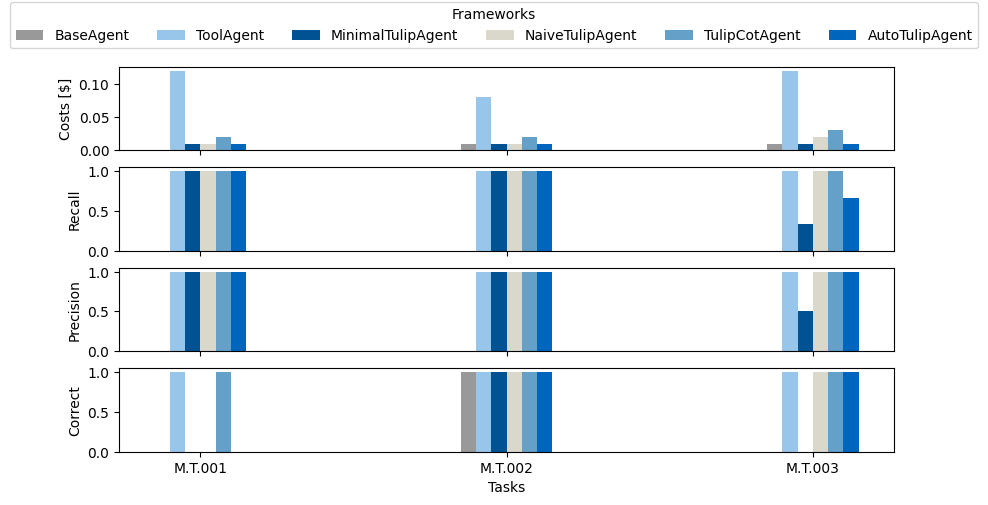
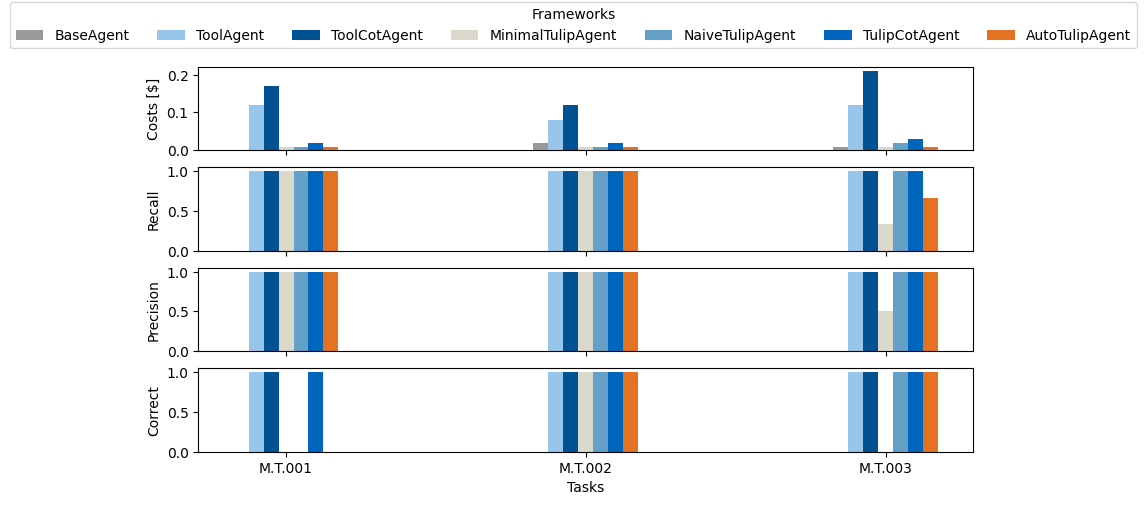
feat(math_eval): include ToolCotAgent

diff --git a/eval/math_eval/math_eval.py b/eval/math_eval/math_eval.py
@@ -17,6 +17,7 @@ from tulip_agent import (
     MinimalTulipAgent,
     NaiveTulipAgent,
     ToolAgent,
+    ToolCotAgent,
     ToolLibrary,
     TulipCotAgent,
 )
@@ -54,7 +55,16 @@ def run_math_eval(task_file: str):
         tool_res = tool_agent.query(query)
         print(f"{tool_res=}")
 
-        tulip = ToolLibrary(chroma_sub_dir="math_eval/", functions=functions)
+        print(" TOOL COT ".center(40, "="))
+        tool_cot_agent = ToolCotAgent(functions=functions)
+        tool_cot_res = tool_cot_agent.query(query)
+        print(f"{tool_cot_res=}")
+
+        tulip = ToolLibrary(
+            chroma_sub_dir="math_eval/",
+            functions=functions,
+            chroma_base_dir="../../data/chroma/",
+        )
 
         print(" MINIMAL TULIP ".center(40, "="))
         minimal_tulip_agent = MinimalTulipAgent(

diff --git a/eval/math_eval/log_analysis.py b/eval/math_eval/log_analysis.py
@@ -220,6 +220,7 @@ if __name__ == "__main__":
         agents=[
             "BaseAgent",
             "ToolAgent",
+            "ToolCotAgent",
             "MinimalTulipAgent",
             "NaiveTulipAgent",
             "TulipCotAgent",
